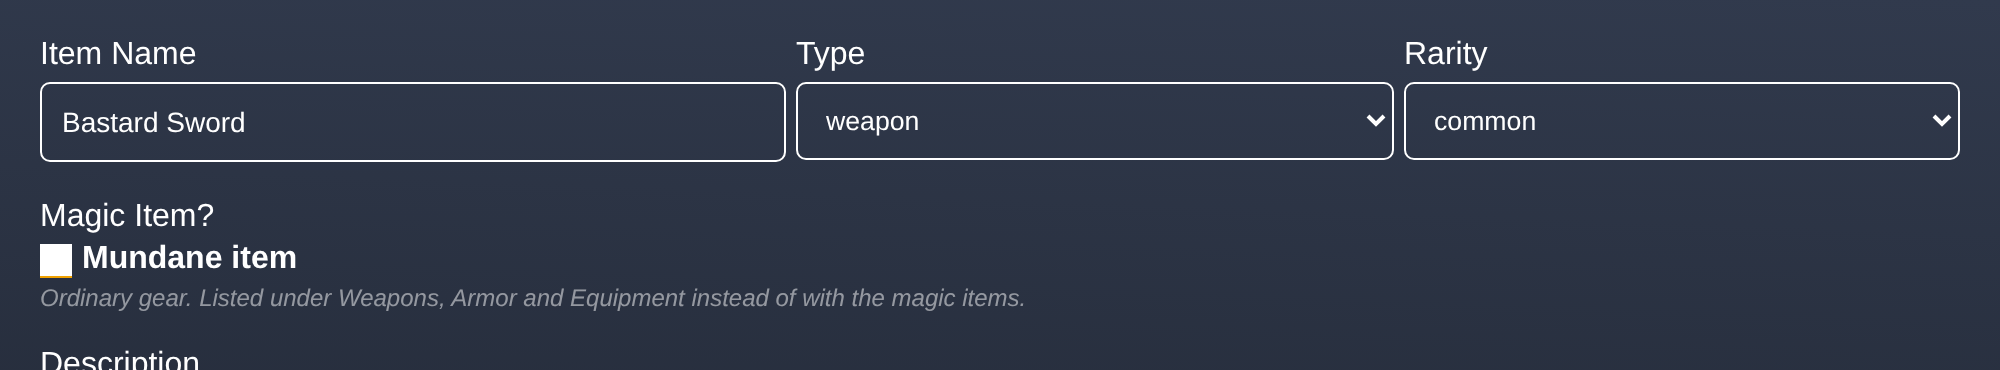
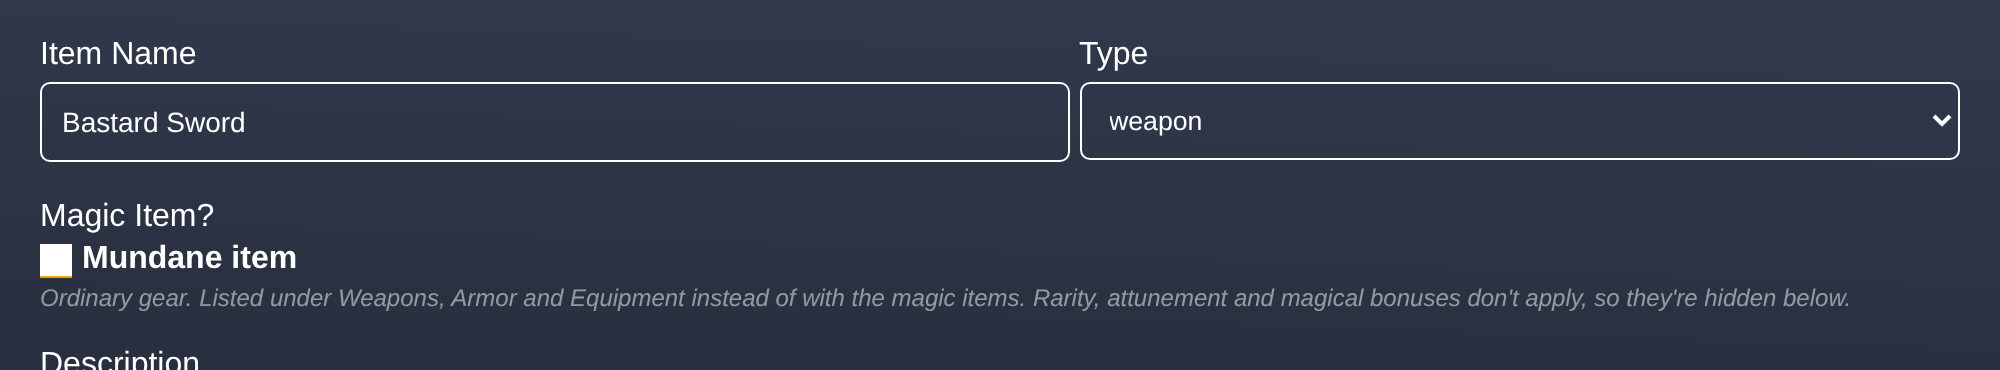
Gate the magical half of the item builder behind the Magic Item? switch
Offering Rarity, Attunement, "Magical Attack Bonus" and the resistance and
immunity grids on an item its owner has marked mundane invites exactly the
confusion this branch is fixing — magical selections made for a length of
rope. Those fields now appear only when Magic Item? is ticked. Name, type,
description and the base weapon / base armor stats stay for both kinds: damage
dice and AC are what an ordinary sword or breastplate is made of, and hiding
them would make a custom mundane weapon impossible to define.

Hiding a field must not empty it. A checkbox that destroys data on a mis-click
is a worse bug than the one being fixed, so unticking suspends rather than
deletes: mi/effective-item strips the magical mechanics on the way OUT to
everything that builds modifiers or displays an item, while the item builder's
edit path keeps reading the raw stored item. Tick the box again and everything
is back. A notice names what is being held — "attunement, modifiers, an attack
bonus" — and clearing it for good takes a deliberate second click.

Nothing on the automatic path can reach that state: an item classify calls
mundane on its own has no magical properties by definition, so the backfill
can never suspend anyone's mechanics. Only a person ticking the box can.

- new ::mi/effective-custom-items sub sits between the raw expansion and every
  downstream reader; ::mi/custom-item-map (the edit path) deliberately stays on
[…]

diff --git a/CHANGELOG.md b/CHANGELOG.md
@@ -24,6 +24,18 @@
   which is the only thing that retires the guess.
 
 ### Changed
+- **The item builder only offers magical fields to magic items** — rarity,
+  attunement, magical attack/damage/AC bonuses and the ability, save, speed,
+  resistance and immunity grids appear only when Magic Item? is ticked. Name,
+  type, description and the base weapon / base armor stats stay for both, since
+  that is what an ordinary sword or breastplate is made of.
+- **Unticking Magic Item hides and suspends, it does not delete** — an item's
+  magical properties stop applying but stay on the item, and a notice names
+  what is being held ("attunement, modifiers, an attack bonus"). Ticking the
+  box again brings them all back; removing them for good takes a deliberate
+  second click. Nothing on the automatic path can reach this state: an item
+  classification calls mundane on its own has no magical properties by
+  definition.
 - **Reclassified items stay resolvable where characters already stored them** —
   a custom item that becomes mundane remains a valid option in the magic-item
   selections, hidden from the picker but still building. Dropping the option
